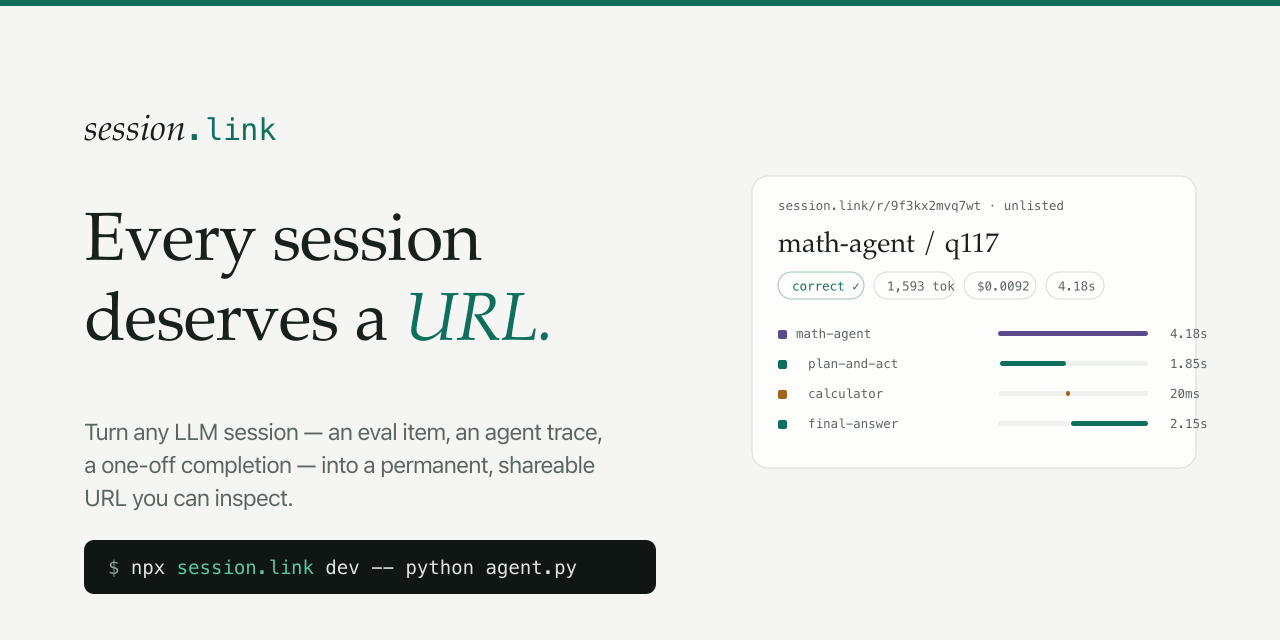
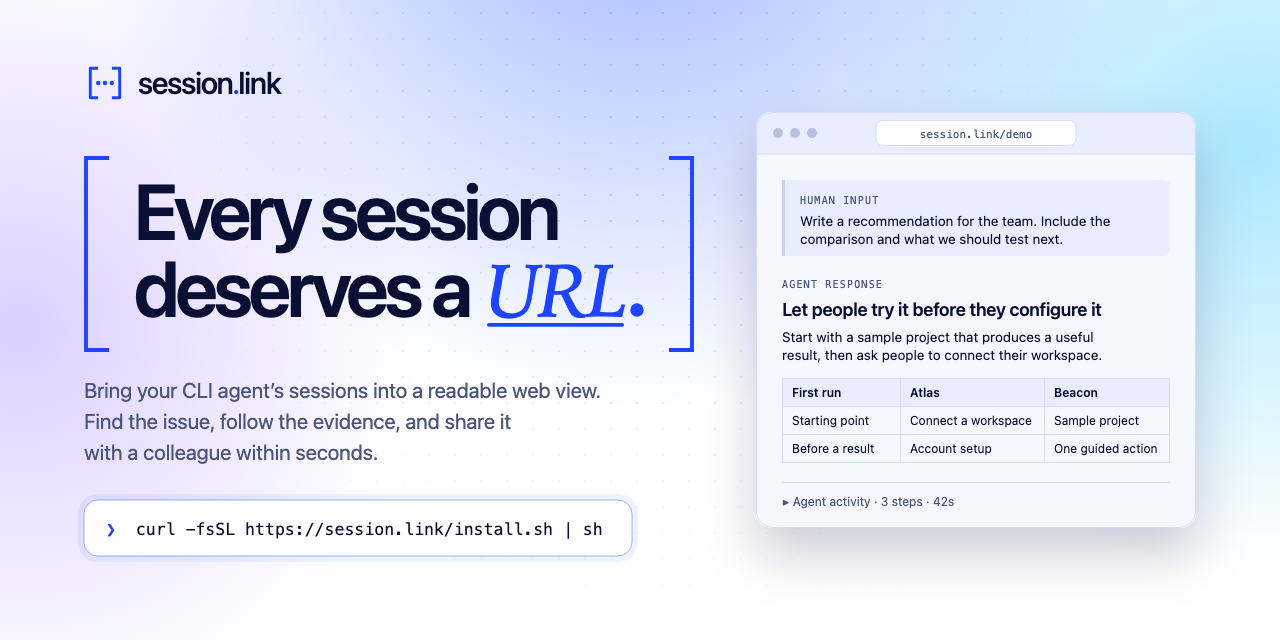
Redraw the social preview in the landing page's palette
The share card still carried the porcelain and viridian, the serif
wordmark and the `npx session.link dev` pitch from August. It is redrawn
as the landing hero: the Elision mark and sans wordmark, the bracketed
headline, the install command, and the reader with the fictional landing
session, on white under the three glows.

scripts/capture-social.mjs exports the PNG from the SVG in a headless
Chromium-family browser, so the two stay in step. The headline's text
lengths are fixed in the SVG, which keeps it inside its brackets whatever
sans a system supplies. The brand README describes the card and notes that
the repository's social preview on GitHub is set by hand and is not set yet.

diff --git a/docs/index.md b/docs/index.md
@@ -46,7 +46,7 @@ or an implemented slice.
 | [README.md](../README.md) | User-facing overview: install, `slink view` and sharing, privacy model, repository layout and development commands |
 | [packages/pi-extension/README.md](../packages/pi-extension/README.md) | The pi extension: `/slink` and `/slink view` commands, install steps, exact-fidelity in-process capture and publishing |
 | [packaging/README.md](../packaging/README.md) | The four CLI distribution channels driven from a tag: goreleaser archives, curl installer, npm binary channel, Homebrew tap |
-| [assets/brand/README.md](../assets/brand/README.md) | Elision mark and wordmark; `build:viewer` copies brand CSS and icons into the Go embed; the server repo keeps matching copies |
+| [assets/brand/README.md](../assets/brand/README.md) | Elision mark, wordmark and brand colors; the social preview card and its export; brand CSS and icons copied into the Go embed and the server |
 | [assets/product/README.md](../assets/product/README.md) | Product screenshots captured from fictional sessions, with sizes and the product state each one shows |
 | [assets/logos/README.md](../assets/logos/README.md) | Provenance and license of third-party harness logos |
 | [testdata/viewer/arrival/README.md](../testdata/viewer/arrival/README.md) | Fictional arrival fixture: eight exchanges, a recovered failure, Markdown, reasoning parts, standalone tool evidence, a child-agent result |

diff --git a/assets/brand/README.md b/assets/brand/README.md
@@ -16,6 +16,14 @@ page share these values; the viewer's full token list is in
 the local viewer's dark theme. `favicon.svg` adapts to light and dark browser
 chrome. Keep the geometry identical between these two assets.
 
+`../social-preview.svg` is the 1280 × 640 share card in the same colors: the
+mark and wordmark, the bracketed headline, the install command and the reader
+with the fictional landing session. `../social-preview.png` is exported from it
+with `node scripts/capture-social.mjs`, which needs a Chromium-family browser
+(`BROWSER_BINARY`); edit the SVG, then export. The PNG is for the repository's
+social preview setting on GitHub, which is uploaded by hand and was not set as
+of 2026-10-08.
+
 `npm run build:viewer` copies this directory's CSS and icons into the Go
 viewer's embedded assets. The server checkout keeps matching copies under
 `public/branding/`, uses the favicon as `app/icon.svg`, and imports the same

diff --git a/CLAUDE.md b/CLAUDE.md
@@ -64,6 +64,8 @@ and `npm run validate`. Run the parts your change touches before finishing.
 - Fixtures under `testdata/` are fictional. Never add a real transcript, and
   keep the leakage markers the fixture READMEs describe intact.
 - Screenshots are generated, not edited: `node scripts/capture-product.mjs`.
+  The social preview PNG is exported from its SVG with
+  `node scripts/capture-social.mjs`.
 
 ## Process hygiene
 
